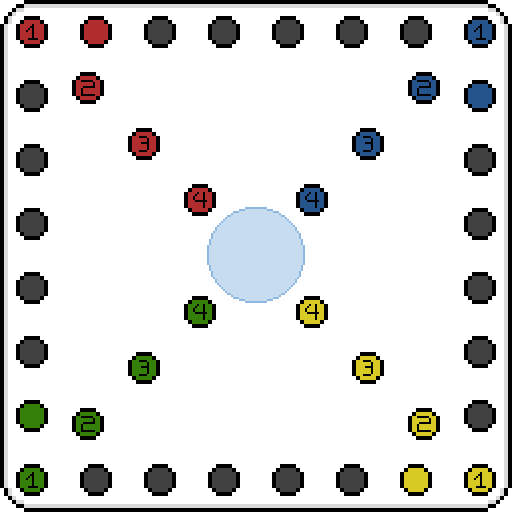
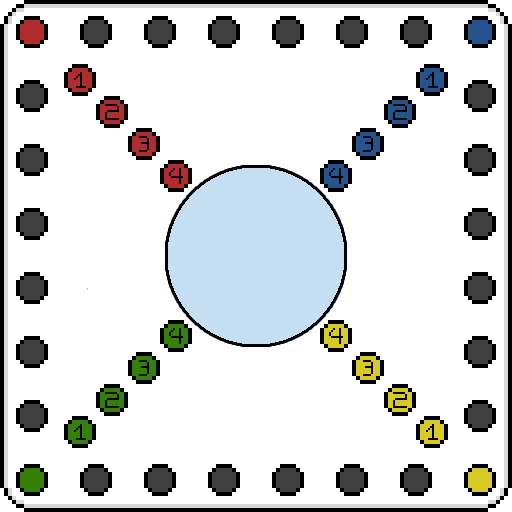
Playable, but still have problems with landing on 6 twice, also error skips turn no matter what.

diff --git a/Trouble/src/TroubleProject/TroubleBoard.java b/Trouble/src/TroubleProject/TroubleBoard.java
@@ -27,16 +27,16 @@ public class TroubleBoard extends BoardGame{
 		
 	//initializing the square sided tiles on the trouble board in the place tile array
 		for(int i = 0; i < 7; i ++){
-			placeTiles[i] = new Rectangle(30 + (i * 10), 20, widthOfTile, widthOfTile);
+			placeTiles[i] = new Rectangle(80 + (i * 64), 80, widthOfTile, widthOfTile);
 		}
 		for(int i = 0; i < 7; i ++){
-			placeTiles[i + 7] = new Rectangle(100, 20 + (i * 10), widthOfTile, widthOfTile);
+			placeTiles[i + 7] = new Rectangle(528, 80 + (i * 64), widthOfTile, widthOfTile);
 		}
 		for(int i = 0; i < 7; i ++){
-			placeTiles[i + 14] = new Rectangle(100 - (i * 10), 90, widthOfTile, widthOfTile);
+			placeTiles[i + 14] = new Rectangle(528 - (i * 64), 528, widthOfTile, widthOfTile);
 		}
 		for(int i = 0; i < 7; i ++){
-			placeTiles[i + 21] = new Rectangle(30, 90 - (i * 10), widthOfTile, widthOfTile);
+			placeTiles[i + 21] = new Rectangle(80, 528 - (i * 64), widthOfTile, widthOfTile);
 		}
 		
 		//copying over these tiles into the color arrays
@@ -60,16 +60,16 @@ public class TroubleBoard extends BoardGame{
 			}
 		}
 		for(int i = 0; i < 4; i ++){
-			redArray[i + 28] = new Rectangle(40 + (i * 10), 30 + (i * 10), widthOfTile, widthOfTile);
+			redArray[i + 28] = new Rectangle(128 + (i * 32), 128 + (i * 32), widthOfTile, widthOfTile);
 	}
 		for(int i = 0; i < 4; i ++){
-			bluArray[i + 28] = new Rectangle(90 - (i * 10), 30 + (i * 10), widthOfTile, widthOfTile);
+			bluArray[i + 28] = new Rectangle(480 - (i * 32), 128 + (i * 32), widthOfTile, widthOfTile);
 	}
 		for(int i = 0; i < 4; i ++){
-			yelArray[i + 28] = new Rectangle(90 - (i * 10), 90 - (i * 10), widthOfTile, widthOfTile);
+			yelArray[i + 28] = new Rectangle(480 - (i * 32), 480 - (i * 32), widthOfTile, widthOfTile);
 	}
 		for(int i = 0; i < 4; i ++){
-			greArray[i + 28] = new Rectangle(40 + (i * 10), 90 - (i * 10), widthOfTile, widthOfTile);
+			greArray[i + 28] = new Rectangle(128 + (i * 32), 480 - (i * 32), widthOfTile, widthOfTile);
 	}
 	
 		

diff --git a/Trouble/src/TroubleProject/Player.java b/Trouble/src/TroubleProject/Player.java
@@ -190,7 +190,7 @@ public void scored(int piece){
 public void drawPlayer(Rectangle[] rect, Graphics g, int playerNum, int team){
 
 	if(!playerInStart[playerNum]){
-	g.drawImage(playerImgs[playerNum], rect[getPos(playerNum)].getX(), rect[getPos(playerNum)].getY());
+	g.drawImage(playerImgs[playerNum], rect[getPos(playerNum)].getX(), rect[getPos(playerNum)].getY() - 24);
 	}
 	else{
 		switch(team){

diff --git a/Trouble/src/TroubleProject/Dice.java b/Trouble/src/TroubleProject/Dice.java
@@ -24,7 +24,7 @@ import org.newdawn.slick.SpriteSheet;
 		
 		boolean inRoll;
 		boolean rollJustStarted;
-		int diceBoardX = 500, diceBoardY = 500;
+		int diceBoardX = 256, diceBoardY = 256;
 		Random random = new Random();
 		SpriteSheet diceSpriteSheet; 
 		

diff --git a/Trouble/src/TroubleProject/TroubleGame.java b/Trouble/src/TroubleProject/TroubleGame.java
@@ -82,6 +82,7 @@ public class TroubleGame extends BasicGame implements Constants{
 			g.drawString(winners, 200, 200);
 			g.drawString("start new game? (y/n)", 200, 300);
 		}
+		board.drawTiles(g);
 		g.flush();
 		
 	}
